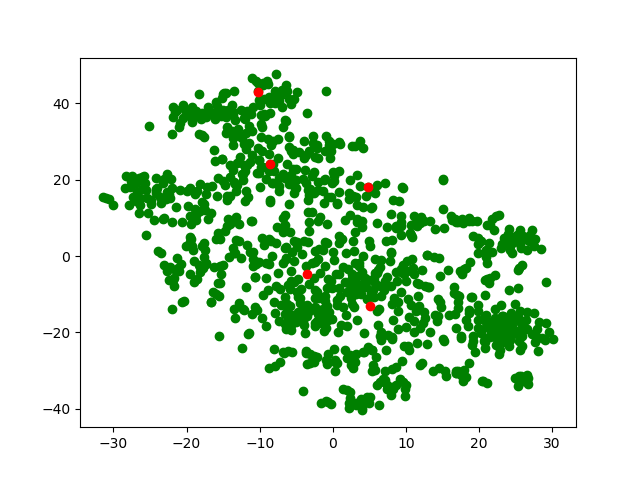
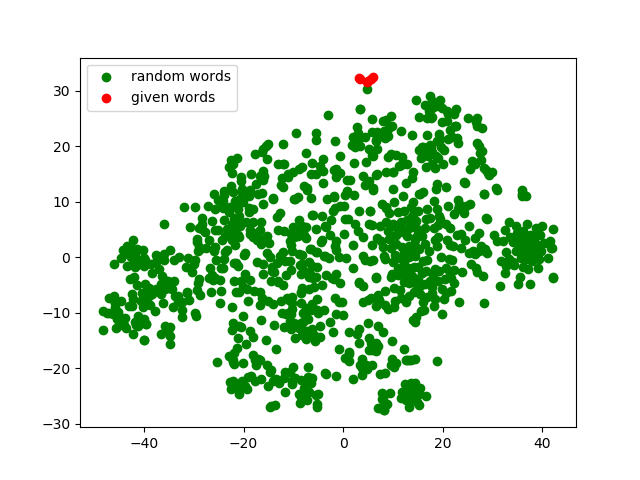
Done

diff --git a/lab7/src/main.py b/lab7/src/main.py
@@ -62,15 +62,16 @@ def find_vector(model, word):
 
 
 def find_projection(model):
-    words = ['szkoda::noun', 'strata::noun', 'szkoda_majątkowa::noun',
+    words = ['szkoda::noun', 'strata::noun', 'uszczerbek::noun', 'szkoda_majątkowa::noun',
              'uszczerbek_na_zdrowie::noun', 'krzywda::noun',
              'niesprawiedliwość::noun', 'nieszczęście::noun']
     random_vectors = random.sample([model[k] for k in model.vocab.keys()], k=1000)
     words_vectors = [x for x in [find_vector(model, x) for x in words] if x is not None]
 
-    projection = TSNE(n_components=2).fit_transform(random_vectors + words_vectors)
+    projection = TSNE(n_components=2).fit_transform(words_vectors + random_vectors)
     plt.scatter(x=[x[0] for x in projection][len(words_vectors):], y=[x[1] for x in projection][len(words_vectors):], c='green', label='random words')
     plt.scatter(x=[x[0] for x in projection][0:len(words_vectors)], y=[x[1] for x in projection][0:len(words_vectors)], c='red', label='given words')
+    plt.legend(loc='best')
     plt.savefig('results/projection.png')
 
 
